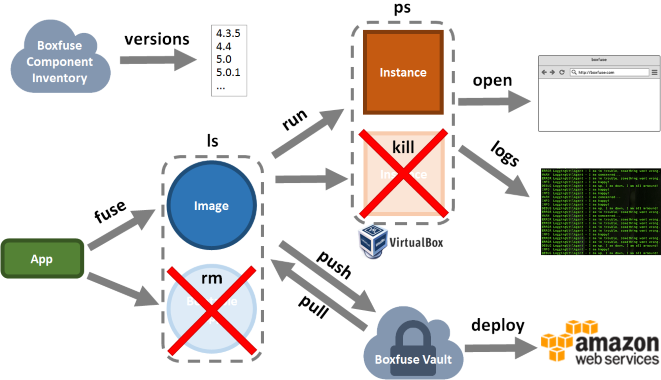
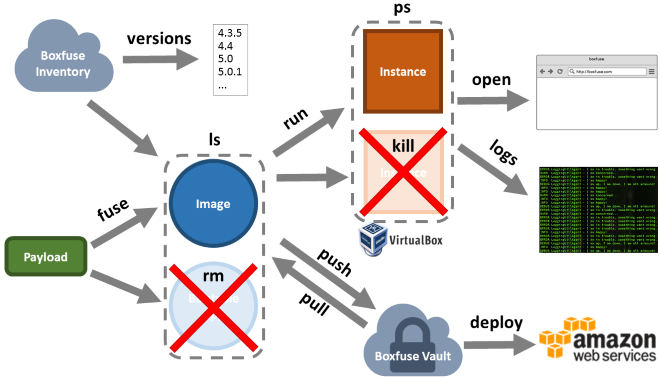
Finished updating the commands page

diff --git a/docs/commands.html b/docs/commands.html
@@ -14,53 +14,52 @@ subtitle: 'Commands'
 
     <p>Before we can start we have to talk about a few simple terms you will encounter:</p>
 
-    <p><strong>Boxfuse Dashboard</strong>: The online dashboard to manage your Boxfuse account and usage.</p>
+    <p><strong>Boxfuse Console</strong>: The online console to manage your <em>Apps</em></p>
 
-    <p><strong>Boxfuse Client</strong>: The installable client that lets you invoke the various commands pictured above.</p>
+    <p><strong>Boxfuse Client</strong>: The installable client that lets you invoke the various commands pictured above</p>
 
-    <p><strong>Boxfuse Component Inventory</strong>: The online inventory of all available versions of the various components used to fuse a Bootable App.</p>
+    <p><strong>Boxfuse Inventory</strong>: The online inventory of all available versions of the various components available to fuse <em>Images</em></p>
+    <p><strong>Boxfuse Vault</strong>: The secure online vault where you can store your <em>Images</em></p>
 
-    <p><strong>Component</strong>: A dependency of your app provided by the Boxfuse Component Inventory. Examples: Tomcat, OpenJDK, ...</p>
+    <p>&nbsp;</p>
+    <p><strong>Component</strong>: A dependency of your app provided by the <em>Boxfuse Inventory</em>. Examples: Tomcat, OpenJDK, ...</p>
 
-    <p><strong>App</strong>: This is your application: the <em>payload</em> of the Bootable App.
-        Boxfuse supports the usual standard formats like executable .jar
-        and .war files, avoiding any lock in.</p>
+    <p><strong>App</strong>: This is your application, as you've created in in the <em>Boxfuse Console</em></p>
 
-    <p><strong>Bootable App</strong>: The universally deployable immutable unit containing both your app and all the components it needs to run.</p>
+    <p><strong>Payload</strong>: This payload of an <em>Image</em>, in one the usual standard formats like an executable .jar
+        or a .war file</p>
 
-    <p><strong>Platform</strong>: An execution platform for a Bootable App. Examples: VirtualBox, AWS, ...</p>
+    <p><strong>Image</strong>: A universally deployable immutable version of your App containing both the <em>Payload</em> and all the components it needs to run</p>
 
-    <p><strong>Image</strong>: A Bootable App converted to a format supported by a specific platform. Examples: VMDK, AMI, ...</p>
-
-    <p><strong>Instance</strong>: A running instance of an Image on a specific platform. Examples: VirtualBox VM, AWS Instance, ...</p>
+    <p><strong>Instance</strong>: A running instance of an <em>Image</em> on a specific platform. Examples: VirtualBox VM, AWS Instance, ...</p>
 
     <p class="doc-section">Details</p>
 
     <p>Now that we've covered some basic terms, let's look at what the commands of the <em>Boxfuse Client</em> do:</p>
 
-    <p><strong>versions</strong>: Lists all versions of a specific <em>Component</em> available in the <em>Boxfuse Component Inventory</em>. For Tomcat this could be 7.0.54, 8.0.8, 8.0.9, ...</p>
+    <p><strong>versions</strong>: Lists all versions of a specific <em>Component</em> available in the <em>Boxfuse Inventory</em>. For Tomcat this could be 7.0.54, 8.0.8, 8.0.9, ...</p>
 
-    <p><strong>fuse</strong>: Fuses your <em>App</em> together with the <em>Components</em> it requires into a <em>Bootable App</em>.</p>
+    <p><strong>fuse</strong>: Fuses your <em>Payload</em> together with the <em>Components</em> it requires into an <em>Image</em></p>
 
-    <p><strong>ls</strong>: Lists all available <em>Bootable Apps</em>.</p>
+    <p><strong>ls</strong>: Lists all <em>Images</em> available on your machine</p>
 
-    <p><strong>rm</strong>: Removes a <em>Bootable App</em>.</p>
+    <p><strong>rm</strong>: Removes an <em>Image</em>.</p>
 
-    <p><strong>convert</strong>: Converts a <em>Bootable App</em> into a <em>Platform</em>-specific <em>Image</em>.</p>
+    <p><strong>run</strong>: Runs an <em>Instance</em> of an <em>Image</em> inside VirtualBox on your machine</p>
 
-    <p><strong>lsi</strong>: Lists all available <em>Images</em>.</p>
+    <p><strong>ps</strong>: Lists all running <em>Instances</em> inside VirtualBox on your machine</p>
 
-    <p><strong>rmi</strong>: Removes an <em>Image</em>.</p>
+    <p><strong>kill</strong>: Gracefully kill an <em>Instance</em> inside VirtualBox on your machine</p>
 
-    <p><strong>run</strong>: Runs an <em>Instance</em> of an <em>Image</em> on a specific <em>Platform</em>.</p>
+    <p><strong>open</strong>: Opens a web browser pointing at the https or http port of an <em>Instance</em></p>
 
-    <p><strong>ps</strong>: Lists all running <em>Instances</em>.</p>
+    <p><strong>logs</strong>: Display the console logs of an <em>Instance</em></p>
 
-    <p><strong>kill</strong>: Gracefully kill an <em>Instance</em>.</p>
+    <p><strong>push</strong>: Pushes an <em>Image</em> to the <em>Boxfuse Vault</em></p>
 
-    <p><strong>open</strong>: Opens a web browser pointing at the https or http port of an <em>Instance</em>.</p>
+    <p><strong>pull</strong>: Pulls an <em>Image</em> from the <em>Boxfuse Vault</em></p>
 
-    <p><strong>logs</strong>: Display the console logs of an <em>Instance</em>.</p>
+    <p><strong>deploy</strong>: Deploys an <em>Image</em> of your App from the <em>Boxfuse Vault</em> onto AWS</p>
 
     <p class="next-steps">
         <a class="btn btn-primary" href="/#contact">Get notified when we launch <i class="fa fa-arrow-right"></i></a>
